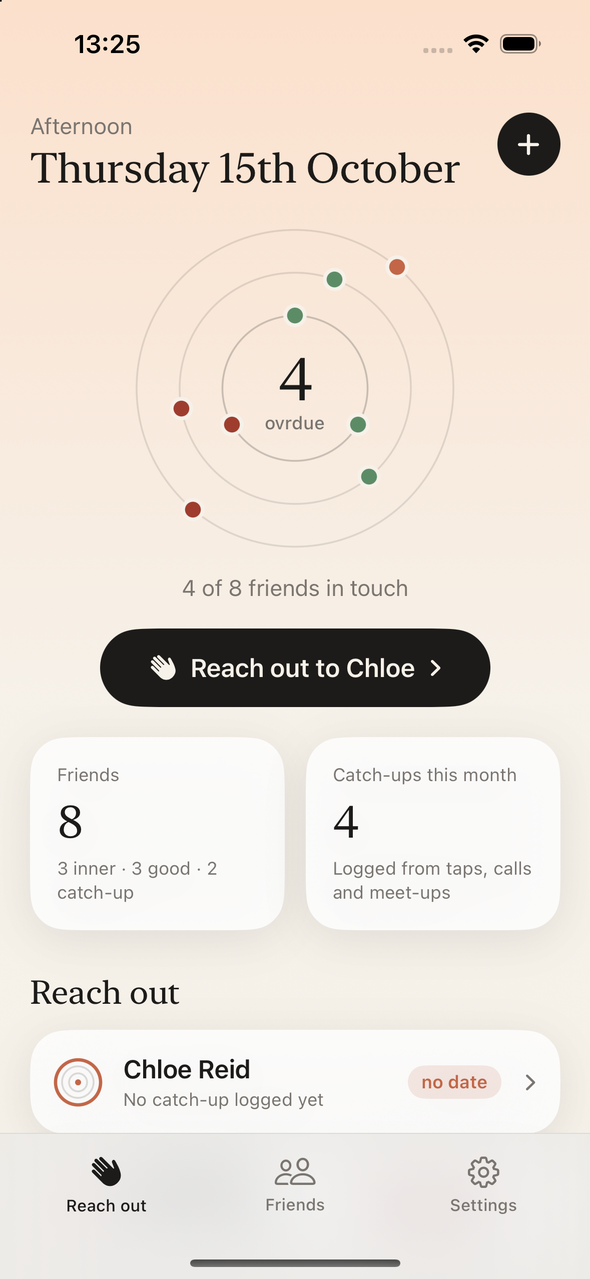
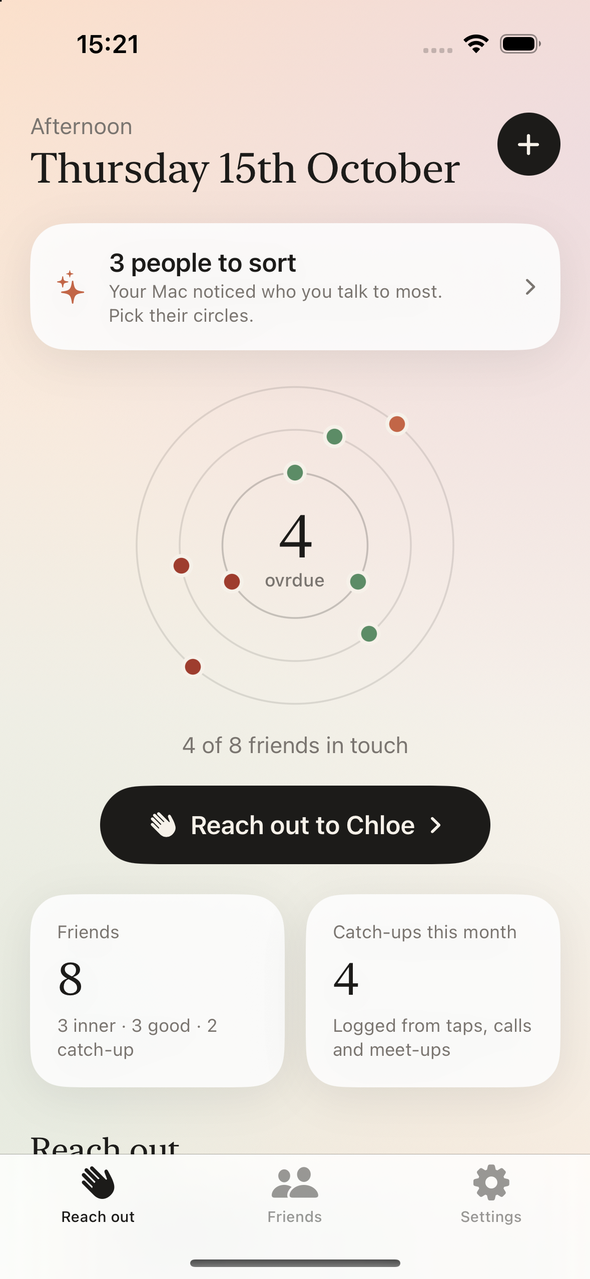
Background washes to match the app; fresh home screenshot
Claude-Session: https://claude.ai/code/session_01LzQiY3BS1UPNsLg6rDZhuK

diff --git a/index.html b/index.html
@@ -33,7 +33,13 @@
   html { min-height: 100%; background: var(--cream); }
   body {
     margin: 0; color: var(--ink); font-family: var(--sans); line-height: 1.5;
-    background: linear-gradient(180deg, var(--peach) 0, var(--cream) 900px);
+    /* Same ground as the app: peach fading to cream, a lilac wash top right, sage low left. */
+    background:
+      radial-gradient(520px 520px at 100% 90px, rgba(230,214,235,0.55), transparent 70%),
+      radial-gradient(560px 560px at -5% 1100px, rgba(212,227,212,0.5), transparent 70%),
+      radial-gradient(420px 420px at 90% 1700px, rgba(251,224,204,0.55), transparent 70%),
+      linear-gradient(180deg, var(--peach) 0, var(--cream) 900px);
+    background-repeat: no-repeat;
     -webkit-font-smoothing: antialiased;
   }
   a { color: inherit; }
